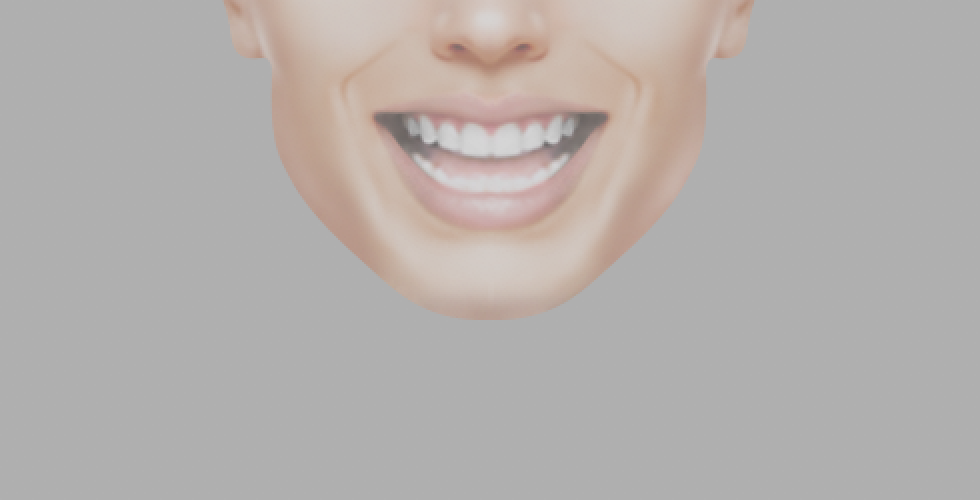
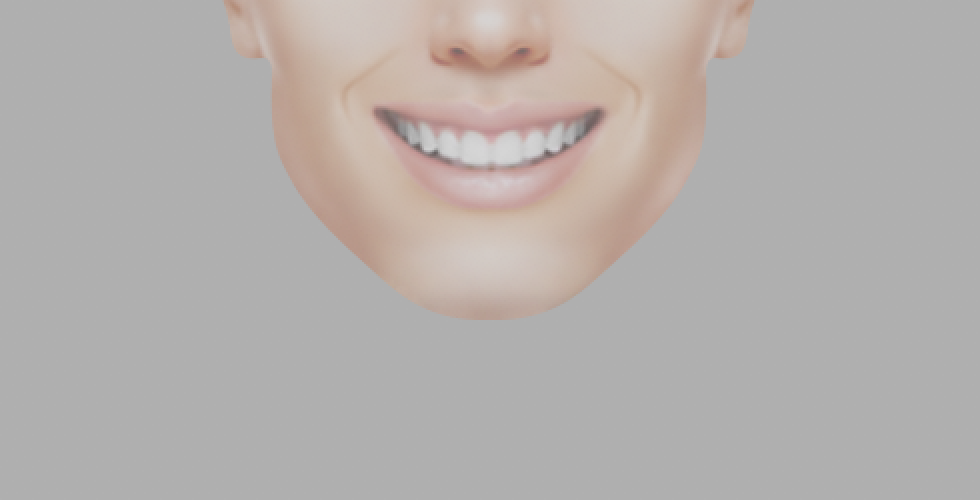
added emoji functionality

diff --git a/src/view/client/ImageLoader.java b/src/view/client/ImageLoader.java
@@ -8,6 +8,7 @@ import javax.imageio.*;
 import javax.swing.*;
 
 import util.ClientConstants;
+import view.client.components.expressive.FacialExpressions;
 
 /**
  * This class loads the facial images in the specified panel
@@ -24,7 +25,7 @@ public class ImageLoader {
 	 */
 	public static Image getImage(String path) {
 		try {
-		    File pathToFile = new File(ClientConstants.IMG_PATH + path + ClientConstants.FILE_TYPE);
+		    File pathToFile = new File(ClientConstants.IMG_PATH + path);
 		    return ImageIO.read(pathToFile);
 		} catch (IOException ex) {
 		    ex.printStackTrace();
@@ -42,8 +43,19 @@ public class ImageLoader {
 	 */
     public static void loadImage(JPanel facePanel, String upperImagePath, String lowerImagePath) {
     		
-    		Image scaledUpperImage = getImage(upperImagePath).getScaledInstance(490, 265, Image.SCALE_SMOOTH);
-    		Image scaledLowerImage = getImage(lowerImagePath).getScaledInstance(490, 250, Image.SCALE_SMOOTH);
+    		Image scaledUpperImage = null;		
+    		Image scaledLowerImage = null;
+    		
+       	facePanel.removeAll();
+    		if (FacialExpressions.getFileTypeCombo().getSelectedItem().toString().equals(ClientConstants.EMOJI_TYPE)) {
+    			scaledUpperImage = 	getImage(upperImagePath + ClientConstants.FILE_TYPE_PNG).getScaledInstance(ClientConstants.PNG_WIDTH, ClientConstants.PNG_UPPER_HEIGHT, Image.SCALE_SMOOTH);
+    			scaledLowerImage =	getImage(lowerImagePath + ClientConstants.FILE_TYPE_PNG).getScaledInstance(ClientConstants.PNG_WIDTH, ClientConstants.PNG_LOWER_HEIGHT, Image.SCALE_SMOOTH);
+    			facePanel.setBackground(new Color(255, 255, 255));
+    		} else {
+    			scaledUpperImage = 	getImage(upperImagePath + ClientConstants.FILE_TYPE_JPEG).getScaledInstance(ClientConstants.JPEG_WIDTH, ClientConstants.JPEG_UPPER_HEIGHT, Image.SCALE_SMOOTH);
+    			scaledLowerImage =	getImage(lowerImagePath + ClientConstants.FILE_TYPE_JPEG).getScaledInstance(ClientConstants.JPEG_WIDTH, ClientConstants.JPEG_LOWER_HEIGHT, Image.SCALE_SMOOTH);
+    			facePanel.setBackground(new Color(177, 177, 177));
+    		}
     		
     		JLabel upperImageLabel = new JLabel(new ImageIcon(scaledUpperImage));
     		JLabel lowerImageLabel = new JLabel(new ImageIcon(scaledLowerImage));
@@ -53,7 +65,7 @@ public class ImageLoader {
     		imagePanel.setMaximumSize(new Dimension(600, 200));
     		imagePanel.add(upperImageLabel);
     		imagePanel.add(lowerImageLabel);
-    		facePanel.removeAll();
+    		facePanel.add(FacialExpressions.getFileTypeCombo());
     		facePanel.add(imagePanel);
     		facePanel.validate();
     		

diff --git a/src/util/ClientConstants.java b/src/util/ClientConstants.java
@@ -7,8 +7,7 @@ package util;
  */
 public class ClientConstants {
   public static final String IMG_PATH = "resources/images/";
-  public static final String FILE_TYPE = ".jpeg";
-  public static final String TITLE = "Project 3 Team 7 - Emotiv Xavier Control Panel";
+  public static final String TITLE = "Project 3 Team 7 - Emotiv Control Panel";
   public static final String FRAME_NAME = "frame212";
   public static final String STATUS_LABEL = "Status:";
   public static final String FONT_TYPE = "Times New Roman";
@@ -34,4 +33,14 @@ public class ClientConstants {
   public static final String EMO_COMPOSER_BUTTON_TEXT = "Open EmoComposer";
   public static final String SERVER_STATUS_TEXT_SUCCESS = "Connected";
   public static final String SERVER_STATUS_TEXT_UNSUCCESS = "Not Connected";
+  public static final String FILE_TYPE_JPEG = ".jpeg";
+  public static final String FILE_TYPE_PNG = ".png";
+  public static final String EMOJI_TYPE = "emoji";
+  public static final String IMAGE_TYPE = "image";
+  public static final int PNG_WIDTH = 380;
+  public static final int PNG_LOWER_HEIGHT = 140;
+  public static final int PNG_UPPER_HEIGHT = 250;
+  public static final int JPEG_WIDTH = 490;
+  public static final int JPEG_LOWER_HEIGHT = 250;
+  public static final int JPEG_UPPER_HEIGHT = 265;
 }

diff --git a/src/view/client/components/expressive/FacialExpressions.java b/src/view/client/components/expressive/FacialExpressions.java
@@ -1,10 +1,12 @@
 package view.client.components.expressive;
 
 import java.awt.Color;
+import java.awt.Font;
 
 import javax.swing.*;
 
 import controller.client.FacialExpressionSolver;
+import util.ClientConstants;
 import view.client.ImageLoader;
 
 /**
@@ -15,6 +17,7 @@ import view.client.ImageLoader;
 public class FacialExpressions {
 
 	static JPanel facialExpressions = null;
+	static JComboBox<String> fileTypeCombo = null;
 	
 	/**
 	 * Constructs and return the facial expression panel
@@ -27,6 +30,20 @@ public class FacialExpressions {
         }
         
         return facialExpressions;
+    }
+    
+    public static JComboBox<String> getFileTypeCombo() {
+    		if (fileTypeCombo == null) {
+    			constructFileTypeCombo();
+    		}
+    		return fileTypeCombo;
+    }
+    
+    public static void constructFileTypeCombo() {
+		fileTypeCombo = new JComboBox<String>();
+		fileTypeCombo.setFont(new Font("Times New Roman", Font.PLAIN, 18));
+		fileTypeCombo.setModel(new DefaultComboBoxModel<String>(new String[] {ClientConstants.IMAGE_TYPE, ClientConstants.EMOJI_TYPE}));
+		
     }
     
     public static void constructFacePanel() {

diff --git a/src/view/server/Server.java b/src/view/server/Server.java
@@ -49,7 +49,7 @@ public class Server {
 
     if (serverView == null) {
       JFrame.setDefaultLookAndFeelDecorated(true);
-      serverView = new JFrame("Project 3 Team 7 - EmojiServer");
+      serverView = new JFrame("Project 3 Team 7 - EmoComposer");
       //      serverView.setDefaultCloseOperation(WindowConstants.DISPOSE_ON_CLOSE);
       // set up the content pane and add swing components to it
       addComponentsToPane(serverView.getContentPane());
